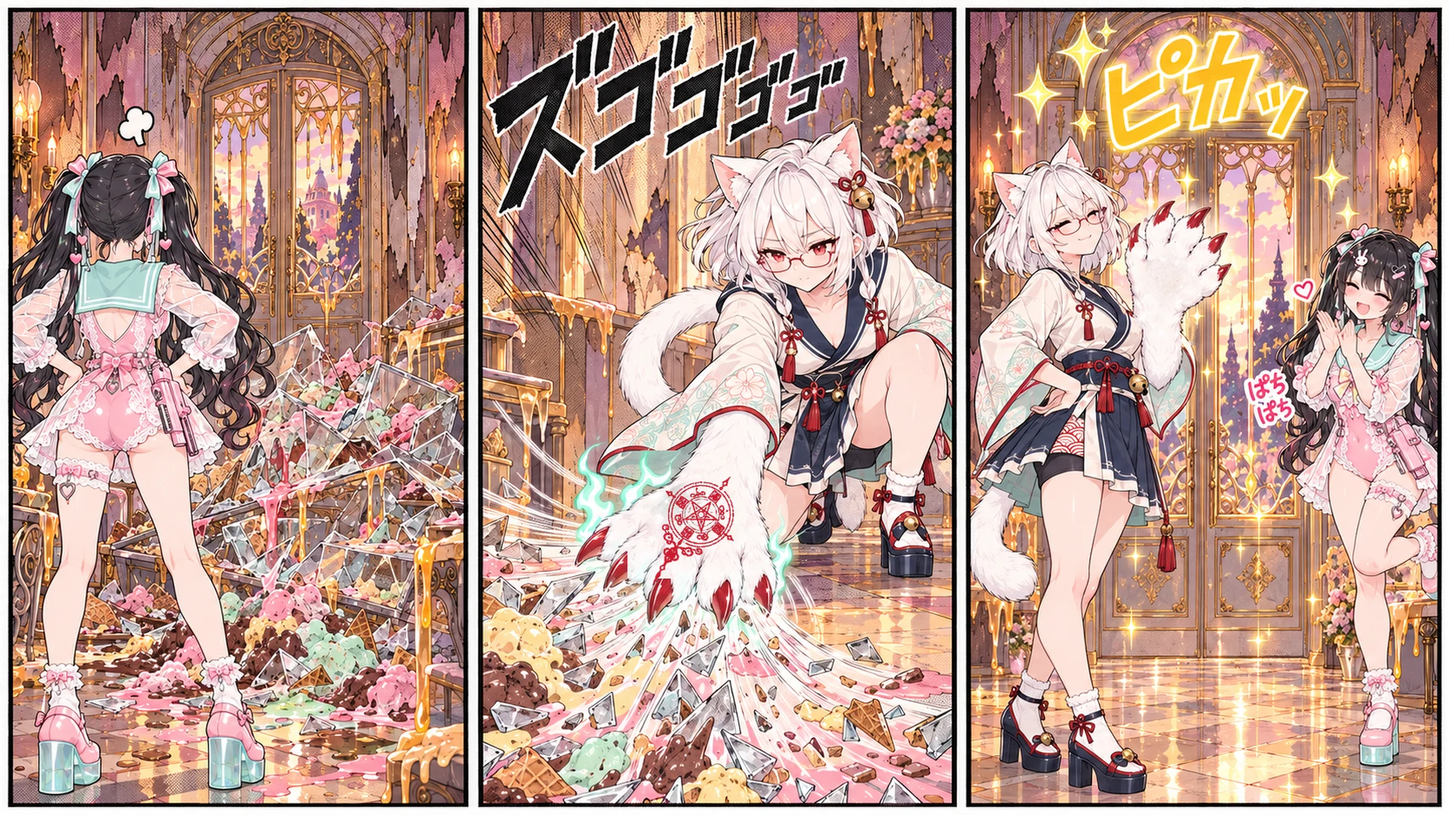
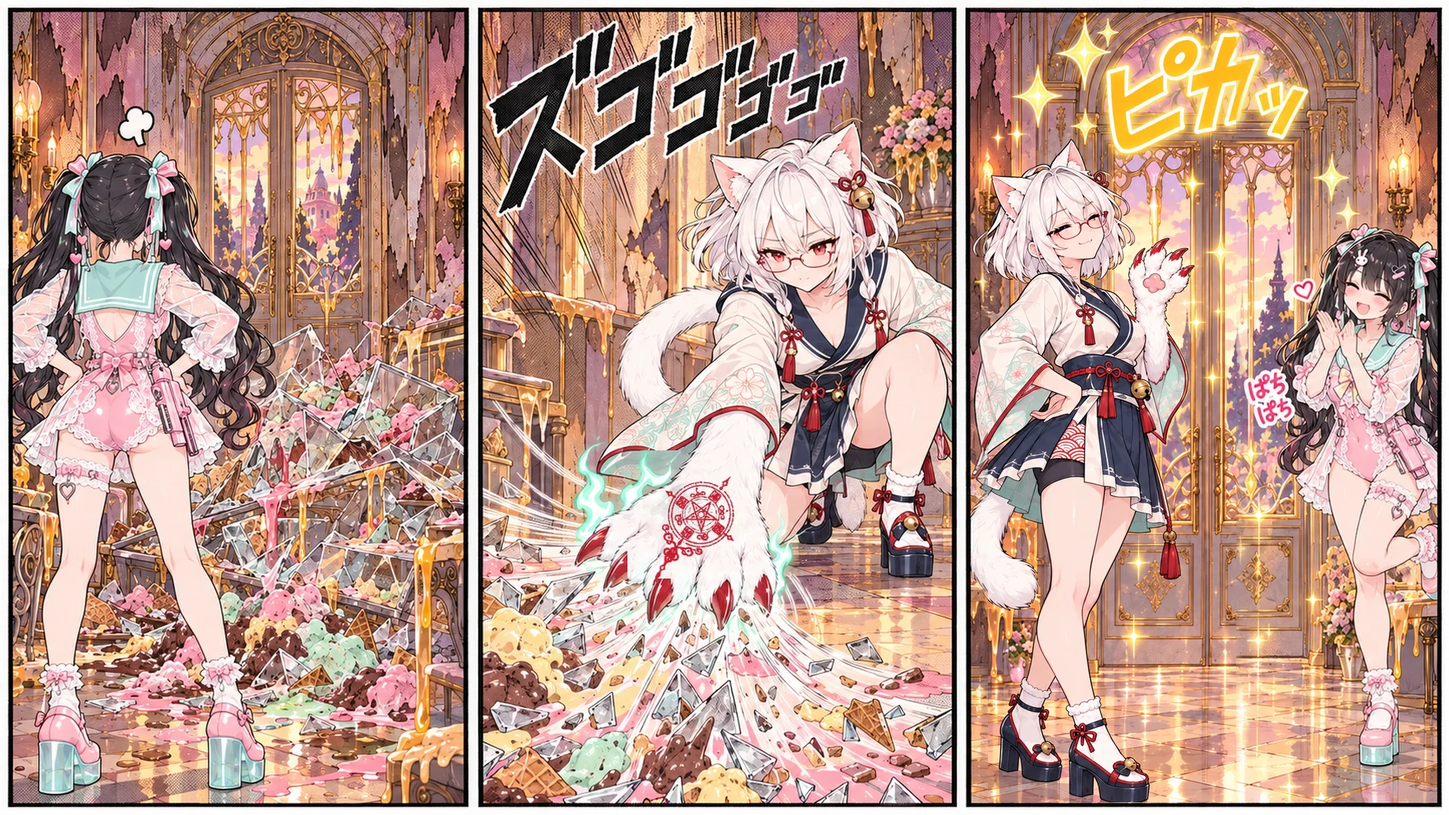
第 1 话十七条第 2 条：按事件推进不靠秒表（一波的定时事件没发生完不结束、最后一波挂着的吊灯也算、吊灯一盏接一盏醒）；夫人之影等声音说完才化掉、这一站的怪等她化掉才出；噬人门活着时藏起真门、死了塌成一滩真门淡回来；扫玻璃那格爪子缩到合理大小

Changed region(s): [[0.6562, 0.0, 0.875, 1.0]]

diff --git a/src/battle/game.js b/src/battle/game.js
@@ -214,7 +214,7 @@ export class Game {
     const S = this.station(id);
     // (a new stop starts clean: the last one's wave state and its waves still to come are not carried over - user 2026-10-22: from the
     // soul's escort on into the studio, the first shadow was skipped and the second came twice; picked from the select screen it was fine)
-    this.waveTok = (this.waveTok || 0) + 1; this.waveLive = false; this.pendingSpawns = 0; this.waveEvents = [];
+    this.waveTok = (this.waveTok || 0) + 1; this.waveLive = false; this.pendingSpawns = 0; this.pendingEvents = 0; this.waveEvents = [];
     // (a stop only some runs have: needs 'crow' = the crow was let out of its cage in the entrance hall - DESIGN 第 2 话; else on to the next)
     if (S?.needs === 'crow' && !this.chase?.crow && this.stationQ.length) { this.goStation(this.stationQ.shift(), boss); return; }
     // a checkpoint inside a long stage (episode 2): a retry starts here, and so does the next run from the select screen until it is cleared
@@ -699,13 +699,13 @@ export class Game {
   }
   // the thing guarded got to the end of its way (escort.js): the stop is won - no more waves, what is left is gone (escort.end)
   escortDone() {
-    this.waveIndex = this.S.waves.length; this.waveLive = true; this.pendingSpawns = 0; this.waveEvents = [];
+    this.waveIndex = this.S.waves.length; this.waveLive = true; this.pendingSpawns = 0; this.pendingEvents = 0; this.waveEvents = [];
     for (const s of this.spawners || []) s.live = false;
   }
   // on from a stop with no fight of its own (a walk-through, the end of a chase, a hiding place): the next stop, or the stage's end
   onward(S) {
     if (this.stationQ.length) this.goStation(this.stationQ.shift(), false);
-    else { this.combat = true; this.waveLive = true; this.pendingSpawns = 0; this.waveIndex = 0; this.S = { ...S, waves: [[]] }; }   // (the stage's end: as if cleared)
+    else { this.combat = true; this.waveLive = true; this.pendingSpawns = 0; this.pendingEvents = 0; this.waveIndex = 0; this.S = { ...S, waves: [[]] }; }   // (the stage's end: as if cleared)
   }
   // the evil god breaks into the calm after-school world: a hit, the paper world tears, the light turns wrong, desks float up
   invade(then) {
@@ -766,7 +766,25 @@ export class Game {
     });
   }
   startWave() {
-    const wave = this.S.waves[this.waveIndex];
+    const all = this.S.waves[this.waveIndex];
+    // a wave entry with hold: true (the lady's shadow, acts.js apparition) is a moment of its own: the rest of the wave starts only when it
+    // is over, not on a clock (user 2026-10-22: a step not finished, nothing of the next one)
+    // (what stands in the room as a thing of it - a chandelier, a statue - is there from the start; its waking waits with the rest)
+    const hold = all.find((e) => e.hold && !e.type);
+    if (hold) {
+      const tok = this.waveTok; this.waveLive = true; this.waveKills = 0; this.pendingSpawns = 1; this.waveEvents = [];
+      const still = all.filter((e) => e.type && e.from === 'statue' && !e.count);
+      for (const s of still) this.spawnEnemy({ ...s, wake: undefined });
+      const after = [...all.filter((e) => e !== hold && !still.includes(e)), ...still.filter((s) => s.wake != null).map((s) => ({ t: s.wake, wake: 1, wakeOf: s.type }))];
+      this.etw.wait(hold.t || 0, () => {
+        if (!this.combat || tok !== this.waveTok) return;
+        this.waveEvent({ ...hold, onDone: () => { if (!this.combat || tok !== this.waveTok) return; this.pendingSpawns--; this.runWave(after); } });
+      });
+      return;
+    }
+    this.runWave(all);
+  }
+  runWave(wave) {
     // a wave lists monsters, and may list things that happen at a time { t, ... } or once so many of this wave's monsters are dead
     // { kills: n, ... }: turn: {...} the place turns real / rotten; mutate: true every monster still standing becomes its full self
     // (enemies.json mutatesTo); gimmick: id fires that mechanism of the set (a portrait empties)
@@ -779,11 +797,14 @@ export class Game {
     const tok = this.waveTok;
     for (const s of spawns) this.etw.wait((s.t || 0) + T.combat.spawnDelay, () => { if (!this.combat || tok !== this.waveTok) return; this.spawnEnemy(s); this.pendingSpawns--; });   // (an entry without t: at once)
     this.waveEvents = wave.filter((e) => !e.type && e.kills);
-    for (const e of wave) if (!e.type && !e.kills) this.etw.wait(e.t || 0, () => this.combat && this.waveEvent(e));
+    // (a wave is not over before everything it says has happened - its timed events too: user 2026-10-22, a step not finished, nothing
+    // of the next one; the gallery's chandeliers had all woken at once, their waves skipped over before their wakes came)
+    const timed = wave.filter((e) => !e.type && !e.kills); this.pendingEvents = timed.length;
+    for (const e of timed) this.etw.wait(e.t || 0, () => { if (tok !== this.waveTok) return; this.pendingEvents--; if (this.combat) this.waveEvent(e); });
   }
   waveEvent(e) {
     // everything else a wave event says is a director's cue (cues.js: say, mv, act, cam, burst, shake ...)
-    const { t: _t, kills: _k, turn: _tu, mutate: _m, gimmick: _g, collapse: _c, hint: _h, sound: _s, spawner: _sp, wake: _w, wakeOf: _wo, ...cue } = e;
+    const { t: _t, kills: _k, turn: _tu, mutate: _m, gimmick: _g, collapse: _c, hint: _h, sound: _s, spawner: _sp, wake: _w, wakeOf: _wo, hold: _ho, ...cue } = e;
     if (Object.keys(cue).length) this.cues.run(cue);
     if (e.turn) this.turn(e.turn);
     if (e.mutate) this.mutateAll();
@@ -814,16 +835,18 @@ export class Game {
     sfx.madness(); this.post.flash(0.5, 0xff8ab0);
   }
   checkWave() {
-    if (!this.waveLive || this.pendingSpawns > 0) return;
+    if (!this.waveLive || this.pendingSpawns > 0 || this.pendingEvents > 0) return;
     if (this.spawners?.some((s) => s.live)) return;
     // episode 2: the things blocking the way (gimmicks with block: true) must all be gone too
     if (this.S.block && this.actors.some((a) => a.g?.block && (!a.g.station || a.g.station === this.stationId) && !a.spent)) return;
     if (this.S.dial && !this.chase.sentOff) return;   // (the last fight: over when the bell has sent her off)
     // no idle gaps (user 2026-10-18): a wave that is not the last one hands over to the next while its last few (combat.waveCarry) are still
     // up; the last wave of a stop is fought to the end
-    // (a chandelier still hanging there as it is does not hold the wave up: it wakes when its own wave starts - chandeliers in ep1_rework.py)
-    const alive = this.actors.filter((a) => a.alive && !(a instanceof Projectile) && !a.prop && !a.phantom && !a.stalker && !(a.state === 'statue' && a.bp?.hang && !a.waking)), left = alive.length;
+    // (a chandelier still hanging there as it is does not hold a wave up while a later wave of this stop is still to wake it -
+    // chandeliers in ep1_rework.py; on the stop's last wave it does: the stop is never over with a monster of it still there - user
+    // 2026-10-22, the camera turned away from chandeliers that had not even woken)
     const last = this.waveIndex >= this.S.waves.length - 1;
+    const alive = this.actors.filter((a) => a.alive && !(a instanceof Projectile) && !a.prop && !a.phantom && !a.stalker && (last || !(a.state === 'statue' && a.bp?.hang && !a.waking))), left = alive.length;
     // only statues still standing and nothing left to wake them: they come to life now (else the stop could never be cleared)
     if (last && left && !this.waveEvents?.some((e) => e.wake) && alive.every((a) => a.state === 'statue' && !a.waking)) this.waveEvent({ wake: true });
     if (left > (last || this.S.solo ? 0 : T.combat.waveCarry ?? 0)) return;   // (station solo: every wave fought to the end - the studio's shadows one at a time, user 2026-10-22)
@@ -838,7 +861,9 @@ export class Game {
     const tok = this.waveTok, next = () => this.combat && tok === this.waveTok && this.S.waves?.[this.waveIndex] && this.startWave();   // (only for this stop)
     if (this.ep.sandbox && this.waveIndex >= this.S.waves.length) { this.waveIndex = 0; this.etw.wait(T.combat.waveGap, next); return; }   // (the sound sandbox: they keep coming)
     if (this.escort.going && this.waveIndex >= this.S.waves.length) { this.waveIndex = this.S.escort.loop ?? 0; this.etw.wait(T.combat.waveGap, next); return; }   // (they keep coming while it is on its way)
-    if (this.waveIndex < this.S.waves.length) { this.etw.wait(left ? 0.2 : T.combat.waveGap, next); return; }
+    // (no gap before a wave that only wakes what hangs there already: the next chandelier straight away - user 2026-10-22, too slow)
+    const wakeOnly = this.S.waves[this.waveIndex]?.every((e) => !e.type && e.wake);
+    if (this.waveIndex < this.S.waves.length) { this.etw.wait(left || wakeOnly ? 0.2 : T.combat.waveGap, next); return; }
     this.combat = false;
     this.clearProjectiles();
     const quiet = this.S.quietEnd;   // (a stop that is not won but run from - the chase: no fanfare, no "cleared!")

diff --git a/src/battle/enemies.js b/src/battle/enemies.js
@@ -470,6 +470,9 @@ export class Enemy extends Actor {
       P.set(s.x, s.y || 0, s.z); this.state = 'statue'; this.setFrame(this.prefix + (this.frames.disguise || this.frames.idle || this.frames.walk || [this.def.first])[0]);
       this.u.outlineOn.value = 0; this.statueReady = ready;
       if (!this.frames.disguise) { const T0 = this.def.statueTint; if (T0) { this.u.tint.value.set(T0[0]); this.u.tintAmt.value = T0[1]; } else { this.u.tint.value.setRGB(0.74, 0.72, 0.7); this.u.tintAmt.value = 0.8; } }   // (disguise: not stone - a thing of the place, as it is: the gallery's door; statueTint: its own - frozen in ice)
+      // (replacesDoor: it IS the room's door until it wakes - the real one is hidden meanwhile, never two doors in one place; it comes
+      // back when the monster is beaten: dieDoor - user 2026-10-22, the maw door showed through the real one)
+      if (this.def.replacesDoor) for (const m of this.game.world.endDoor || []) m.visible = false;
       if (bp.hang) {   // (hanging from the ceiling on its chain: the chandelier - user 2026-10-22)
         const top = lv.ceilAt(s.z), y0 = P.y + this.h * 0.97, L = Math.max(0.1, top - y0);
         this.chain = new THREE.Mesh(new THREE.CylinderGeometry(0.022, 0.022, L, 6), new THREE.MeshBasicMaterial({ color: 0x2a1e14 }));
@@ -1142,6 +1145,7 @@ export class Enemy extends Actor {
   // monster's (a long crossfade), it squashes and springs up, ink bursts off it, a roar - and it goes
   wake() {
     if (!this.alive || this.state !== 'statue' || this.shuddering) return;
+    this.waking = true;   // (whoever woke it - a wave event or its own timer: it counts as a monster of the wave from now on, Game.checkWave)
     const g = this.game, P = this.root.position;
     const turn = () => {
       this.shuddering = false; this.inner.position.x = 0; this.inner.rotation.z = 0;
@@ -1170,6 +1174,21 @@ export class Enemy extends Actor {
       this.inner.position.x = Math.sin(e * D * 55) * 0.04 * k; this.inner.rotation.z = Math.sin(e * D * 37) * 0.035 * k;
       if (Math.random() < 0.12 + k * 0.3) g.fx.puff(this.uvToWorld(Math.random(), Math.random() * 0.9), 2, COL.bone, 0.6);
     }, { onDone: turn });
+  }
+  // the maw door beaten (replacesDoor): its jaws sag, it slumps down into a puddle of honey, ink bursting off it, while the real door
+  // fades back in where it stood
+  dieDoor() {
+    const g = this.game, D = g.world.endDoor || [], c = this.center();
+    g.fx.ink(c, 30, 2.2, COL.violet); g.fx.confetti(c, 26, 1.8, [COL.bone, COL.paper]); g.post.shake(1.2); sfx.thud(0);
+    for (const m of D) { m.visible = true; m.material.transparent = true; m.material.opacity = 0; }
+    g.tweens.run(0.25, (k) => { this.inner.scale.set(1 + 0.12 * k, 1 + 0.1 * k, 1); });
+    g.tweens.wait(0.25, () => g.tweens.run(1.3, (k) => {
+      const e = k * k;
+      this.inner.scale.set(1.12 + 0.25 * e, 1.1 * (1 - 0.95 * e), 1); this.u.opacity.value = 1 - e;
+      this.inner.position.x = Math.sin(k * 40) * 0.04 * (1 - k);
+      if (Math.random() < 0.3) g.fx.puff(this.uvToWorld(Math.random(), Math.random() * 0.3), 2, COL.bone, 0.7);
+      for (const m of D) m.material.opacity = Math.min(1, k * 1.4);
+    }, { onDone: () => { for (const m of D) m.material.opacity = 1; this.dispose(); } }));
   }
   // 幻影洗牌: n figures, only this one real; spawned once it is up, reshuffled after it loses a share of its HP
   makePhantoms() {
@@ -1212,6 +1231,9 @@ export class Enemy extends Actor {
     if (this.shadowM && this.pivot === 'center') this.shadowM.visible = false;
     const uv = info?.uv || { u: 0.5, v: 0.55 };
     const crit = info?.crit;
+    if (this.def.replacesDoor) {   // (the maw door: not flung about - it sags and melts away and the real door is there behind it)
+      this.dieDoor(); sfx.paperRip(0); this.game.onKill(this, 'knock', crit); this.game.morph?.burst(this); this.game.morph?.puddle(this); return;
+    }
     // rifle: knocked flat / shattered on a crit. mantra + beam: purified (burns away in gold) / shattered on a crit
     const how = crit ? 'shatter' : kind === 'mantra' || kind === 'beam' ? 'burn' : 'knock';
     // with the physics: knocked away by that shot (harder the heavier it was), tumbling into what is there; burning away as it flies; a

diff --git a/src/battle/acts.js b/src/battle/acts.js
@@ -14,7 +14,7 @@
 // and, for every monster: purified by the cat's mantra (kill kind mantra / beam), a kind with "revert" in enemies.json leaves behind
 // what it was (a prop, a rigid body) instead of burning away (Acts.revert, from Enemy.die). Owned by Game (game.acts).
 import * as THREE from 'three';
-import { sfx, sound } from '../core/audio.js';
+import { sfx, sound, talking, voiceLoad } from '../core/audio.js';
 import { C } from '../core/content.js';
 import { COL } from './fx.js';
 
@@ -39,8 +39,8 @@ export class Acts {
   constructor(game) { this.g = game; this.live = []; }
 
   start(e) {
-    const f = this[e.act]; if (!f) { console.warn('unknown act', e.act); return; }
-    const a = f.call(this, e); if (a) this.live.push(a);
+    const f = this[e.act]; if (!f) { console.warn('unknown act', e.act); e.onDone?.(); return; }
+    const a = f.call(this, e); if (a) this.live.push(a); else e.onDone?.();   // (onDone: a wave held for it goes on - Game.startWave hold)
   }
   update(dt, t) {
     for (let i = this.live.length - 1; i >= 0; i--) if (this.live[i].update(dt, t) === false) this.live.splice(i, 1);
@@ -50,18 +50,26 @@ export class Acts {
   // ---- apparition: the lady's shadow seen a moment (user 2026-10-22: in each place of the house her shadow jumps out once, up close,
   // saying something - and her child's things seen on the way, not first at the end): { act, shade: its picture standing there unseen
   // till now (sets.json gimmicks, hidden), say: her line (text/stickers.json bosses.madame), name } - it seeps up out of the dark, the fight
-  // held while the camera goes to it and she speaks (Game.introLook, her voice), then it melts away. Not a monster of the wave
+  // held while the camera goes to it and she speaks (Game.introLook, her voice), then it melts away. Not a monster of the wave.
+  // Each step waits for the one before, not a clock (user 2026-10-22: in the nursery she was gone before she had finished): her voice
+  // loaded before she speaks, the close look only once no other is on, gone only when her line is over; then the wave holding for her
+  // goes on (e.onDone, Game.startWave hold)
   apparition(e) {
     const G = this.g, gm = e.shade && G.actors.find((a) => a.g?.id === e.shade && a.alive); if (!gm) return null;   // (shade, not gimmick: a wave event's gimmick fires one)
     gm.root.visible = true; gm.billboard = true; gm.u.outlineOn.value = 0; gm.u.opacity.value = 0; gm.inner.scale.set(0.6, 0.15, 1);
     G.fx.ink(gm.center(), 18, 1.4, COL.violet); (sfx.creak || sfx.thud)(0); G.post.shake(0.5);
     G.tweens.run(1.0, (k) => { gm.u.opacity.value = k; gm.inner.scale.set(0.6 + 0.4 * k, 0.15 + 0.85 * k * (2 - k), 1); });
-    G.tweens.wait(0.8, () => G.introLook(gm, { say: e.say, who: 'madame', name: e.name, dist: e.dist ?? 4.4, up: e.up ?? 0.4, v: 0.6, min: 3.2 }));
-    const t0 = performance.now();
-    return { update: () => {
-      if (G.cineOn || performance.now() - t0 < 2000) return;
+    let loaded = false, step = 'rise', t = 0;
+    voiceLoad('madame', e.say).then(() => { loaded = true; }, () => { loaded = true; });
+    return { update: (dt) => {
+      t += dt;
+      if (step === 'rise') {
+        if (t < 1.0 || !loaded || G.cineOn || G.vigOn || G.board) return;
+        G.introLook(gm, { say: e.say, who: 'madame', name: e.name, dist: e.dist ?? 4.4, up: e.up ?? 0.4, v: 0.6, min: 3.2 }); step = 'speak'; t = 0; return;
+      }
+      if (G.cineOn || talking('madame') || t < 0.6) return;
       G.fx.ink(gm.center(), 14, 1.2, COL.violet);
-      G.tweens.run(0.9, (k) => { gm.u.opacity.value = 1 - k; gm.inner.scale.set(1 + k * 0.2, 1 + k * 0.35, 1); }, { onDone: () => { gm.alive = false; gm.dispose(); } });
+      G.tweens.run(0.9, (k) => { gm.u.opacity.value = 1 - k; gm.inner.scale.set(1 + k * 0.2, 1 + k * 0.35, 1); }, { onDone: () => { gm.alive = false; gm.dispose(); e.onDone?.(); } });
       return false;
     } };
   }

diff --git a/src/battle/panels.js b/src/battle/panels.js
@@ -269,9 +269,10 @@ export class PanelWorld {
     if (Hd.door && tex[Hd.door.frame]) {
       const D = Hd.door, ft = tex[D.frame], hole = meta[D.frame]?.hole || [0.26, 0.2, 0.74, 1], dw = D.w, dh = dw * ft.image.height / ft.image.width, dx = D.x || 0;
       const f = board(D.frame, dw, dh, { soft: true }); f.position.set(dx, dh / 2, z1 + 0.08); f.renderOrder = 2; put(f, z1);
+      this.endDoor = [f];   // (a monster standing in for it hides it while it lives: enemies.json replacesDoor - the gallery's maw door)
       if (tex[D.leaf]) {
         const lw = dw * (hole[2] - hole[0]), lh = dh * (hole[3] - hole[1]), l = board(D.leaf, lw, lh, { alpha: true });
-        l.position.set(dx + dw * ((hole[0] + hole[2]) / 2 - 0.5), dh * (1 - (hole[1] + hole[3]) / 2), z1 + 0.05); put(l, z1);
+        l.position.set(dx + dw * ((hole[0] + hole[2]) / 2 - 0.5), dh * (1 - (hole[1] + hole[3]) / 2), z1 + 0.05); put(l, z1); this.endDoor.push(l);
       }
     }
     // a drawbridge (hall.bridge = { z0, z1, seals }): a gap in the floor between z0 and z1, the bridge standing up on its far side (hinged

diff --git a/src/core/audio.js b/src/core/audio.js
@@ -530,6 +530,11 @@ export function voice(who, kind, i, slot = 0, pr = 5, pan) {
   if (!b || b instanceof Promise) { if (b === undefined) load(f); return null; }
   return talk(who, b, pr, pan ?? (slot ? 0.25 : -0.25));
 }
+// every voice file of a kind of line loaded (a moment that must not start silent waits for it: acts.js apparition)
+export function voiceLoad(who, kind) {
+  const L = C.sounds?.voices?.[who]?.lines || {};
+  return Promise.all(Object.keys(L).filter((k) => k.startsWith(`${kind}_`)).map((k) => load(L[k])));
+}
 // how long that line is said (seconds; 0 = no voice / not loaded yet): a line's words stay up while it is said
 export function voiceLen(who, kind, i) {
   const b = BUF.get(C.sounds?.voices?.[who]?.lines?.[`${kind}_${i + 1}`]);

diff --git a/tools/rounds/job_specs93.py b/tools/rounds/job_specs93.py
@@ -24,8 +24,11 @@ FIX = {
                "the big paw in front, the lower one of her two clasped hands under her chin",
                "her other hand, the one behind that paw, its fingers over it (the upper one of the two), clasped together with the paw under "
                "her chin in delight at the same place"),
+    # (user 2026-10-22: on the glass page's last panel the paw is far bigger than the cat girl - redrawn its right size: GLASS below)
+    "glass_2": ("glass", 2, (0.01, 0.0, 0.6, 1.0), None, None),
 }
-EP = {"fountain": "ep1", "fall": "ep1", "open": "ep2"}   # (which episode's pack each page is in: comic/<ep>p_<page>, comics.json <ep>_<page>)
+GROW = {"glass_2"}   # (a panel too narrow for the tool's shapes: the crop may reach past it on the page - only her box is pasted back)
+EP = {"fountain": "ep1", "fall": "ep1", "open": "ep2", "glass": "ep1"}   # (which episode's pack each page is in: comic/<ep>p_<page>, comics.json <ep>_<page>)
 SHAPES = (2 / 3, 1.0, 3 / 2)   # w / h the image tool makes
 
 
@@ -69,6 +72,9 @@ def boxes(name):   # -> (crop box, her box) on the page, px: the crop = her box 
         if (x1 - x0) / (y1 - y0) > want * 1.02:   # (the panel too low to grow taller: narrower instead, round her box, inside the panel)
             w = (y1 - y0) * want; cx = min(max((her[0] + her[2]) / 2, X0 + w / 2), X1 - w / 2); x0, x1 = cx - w / 2, cx + w / 2
         if x0 <= her[0] + 1 and x1 >= her[2] - 1 and y0 <= her[1] + 1 and y1 >= her[3] - 1: break
+    if name in GROW and (x1 - x0) / (y1 - y0) < min(SHAPES, key=lambda s: abs(s - (x1 - x0) / (y1 - y0))) * 0.98:
+        W = Image.open(orig(page)).size[0]; want = min(SHAPES, key=lambda s: abs(s - (x1 - x0) / (y1 - y0))); add = (y1 - y0) * want - (x1 - x0)
+        x0, x1 = max(0, x0 - add), x1 if x0 - add >= 0 else min(W, x1 + add - x0)
     return tuple(round(v) for v in (x0, y0, x1, y1)), tuple(round(v) for v in her)
 
 
@@ -93,7 +99,7 @@ def prompt(name):
 
 
 JOBS = {f"R93_{n}": [(f"art/raw/r93/{n}_{v}.png", [src(n), "art/ref/cat_sheet.png", "art/ref/pink_sheet.png", "art/ref/pink_poses.png"],
-                      prompt(n) + f" Try {v}.", "OPAQUE") for v in "abc"] for n in FIX}
+                      prompt(n) + f" Try {v}.", "OPAQUE") for v in "abc"] for n in FIX if FIX[n][3]}
 
 # (user 2026-10-22, on open_0 b: three hands - the lump of fur under her chin still read as two paws, with the girl's hand over them: again,
 # asking outright for exactly two hands and the second lump gone)
@@ -110,3 +116,17 @@ REDO = ("Edit reference image 1, a panel from a full-colour manga page of a game
         "effects.")
 JOBS["R93_open_0_redo"] = [(f"art/raw/r93/open_0_{v}.png", [src("open_0"), "art/ref/cat_sheet.png", "art/ref/pink_sheet.png",
                                                              "art/ref/pink_poses.png"], REDO + f" Try {v}.", "OPAQUE") for v in "def"]
+
+GLASS = ("Edit reference image 1, a panel from a full-colour manga page of a game. Output the SAME picture at the same framing: keep "
+         "everything exactly as it is (the camera, the composition, the stained-glass door and the room behind, the colours, the line art "
+         "and screentone style, the sparkles and the lettering) and keep the white-haired cat girl's pose, position, size, smug smiling "
+         "face, hair, glasses, clothes, tail and legs exactly as they are (reference image 2 is her design sheet). The black-haired twin-tail "
+         "girl, where she is in the picture, stays exactly as she is too (reference images 3 and 4 are her design; " + OUTFIT + "). Change "
+         "ONLY one thing: her cat paw (her raised arm beside her face, its palm with pink paw pads toward the viewer) is drawn FAR too big - "
+         "as big as her whole upper body. Redraw it at its right size, as on her design sheet: a white fluffy ghost-cat paw with red claws "
+         "about one and a half times the size of her head and no bigger, still raised beside her face in the same proud 'ta-da' gesture "
+         "with the palm and pads toward the viewer, coming out of the same wide white sleeve, the arm and sleeve in proportion to her body; "
+         "fill the space it leaves with the same background (the door, its stained glass, the sparkles). No mark or seal on the palm. Do not "
+         "add text, do not add effects.")
+JOBS["R93_glass_2"] = [(f"art/raw/r93/glass_2_{v}.png", [src("glass_2"), "art/ref/cat_sheet.png", "art/ref/pink_sheet.png", "art/ref/pink_poses.png"],
+                        GLASS + f" Try {v}.", "OPAQUE") for v in "abc"]

diff --git a/tools/rounds/ep1_rework.py b/tools/rounds/ep1_rework.py
@@ -341,9 +341,8 @@ def apparitions(D):
             else:
                 S["gimmicks"].append({"id": f"keep_{stn}", "k": k, "on": "stand", "x": round(max(H["x0"] + 0.8, min(H["x1"] - 0.8, x + across)), 2), "z": round(z + 0.3, 2),
                                       "w": w, "shoot": False})
-        for e in st["waves"][0]:   # (the stop's first wave a little later, all of it - the statues' wakes too: she is seen alone first)
-            e["t"] = round(e.get("t", 0) + 5.0, 2)
-        st["waves"][0].insert(0, {"t": 0.8, "act": "apparition", "shade": f"lady_{stn}", "say": say, "name": SHADE})
+        # (hold: the stop's first wave - its monsters, the statues' wakes - only once she is gone, not on a clock: Game.startWave)
+        st["waves"][0].insert(0, {"t": 0.8, "act": "apparition", "hold": True, "shade": f"lady_{stn}", "say": say, "name": SHADE})
 
 def places(D):
     import random

diff --git a/tools/rounds/r93_import.py b/tools/rounds/r93_import.py
@@ -12,9 +12,10 @@ import packs  # noqa: E402
 from job_specs93 import FIX, EP, RAW, boxes, panel_box, orig  # noqa: E402
 from r53_import import put  # noqa: E402
 
-PICK = {"fountain_3": "b", "fall_2": "c", "open_0": "d"}
+PICK = {"fountain_3": "b", "fall_2": "c", "open_0": "d", "glass_2": "b"}
 # (fountain b: the sleeve keeps its mint lining; fall a drew a second gun girl behind her; open: a-c kept the two-paw lump under the girl's
 # hand - three hands (user 2026-10-22) - so d-f asked for exactly two: d; e drew her as the gun girl, f changed the whole panel)
+# (glass: the paw far bigger than she is, user 2026-10-22 - b: about her head's size, its palm and pad toward the viewer; a lost the paw)
 FEATHER = 0.05   # of her box's smaller side
 
 

diff --git a/docs/TECH.md b/docs/TECH.md
@@ -196,10 +196,11 @@
   - `phantoms: { n, shuffle, hits }`：出场后站在 n - 1 个幻影（`Phantom`：同一张图、同样的动作、偏一个位置）中间；幻影挨打只闪不掉血，挨 hits 下化掉；真身每掉 shuffle 的血，所有人淡出、重新排位置淡入；真身死了幻影一起化掉；幻影不算这一波的怪（`checkWave`）；
   - `dmg`：它咬 / 撞一下掉多少血（没写就是 combat.enemyHit；成群的蝙蝠只掉 8）。
 - 波与波之间不留空：不是最后一波时，场上只剩 `combat.waveCarry`（1）只就开始下一波（这一波还有按击杀数触发的事件时等它们）；最后一波打完才算清场（`Game.checkWave`）。
-- 波次条目：`count: n` 一次刷一群（`spread` 米宽里排开，`every` 秒一个，飞的高度略有起伏）；`from: 'statue'` 摆设（灰色、没描边、打不中，`hitMeshes` 为空），`wake` 秒后或波次事件 `{ kills / t, wake: true | 数量, wakeOf: 种类 }`（近的先；`wakeOf` 只叫醒那一种）裂开活过来（`Enemy.wake`）；吊灯 `params.hang`：摆着时一根链子连到天花板（`Actor.chain`），醒来链子断、往下掉 `drop` 米再飘（`sway`），挂着没醒的不算这一波的怪（`checkWave`）——`ep1_rework.py chandeliers` 把每站的吊灯挪到第 0 波、挂在天花板下（每站最多四盏，在镜头前沿天花板中线左右轮流排开），原来那一波开始时 `wakeOf: chandelier` 叫醒；夫人之影的露面：演出 `act: apparition`（`acts.js`，`{ shade: 机关 id, say: 台词种类, name }`——用 `shade` 不用 `gimmick`：波次事件的 `gimmick` 是触发机关）把一个藏着的机关（`sets.json gimmicks` 的 `hidden: true`）显出来、`Game.introLook`（`o.name`：没有怪的种类时的名字）拍她说话，特写完了化掉；`ep1_rework.py apparitions` 在六个地方的那一站摆好她和那件东西、把这一站第一波的怪推迟 5 秒；台词在 `text/stickers.json bosses.madame`（`seen_*` 和 photo / diary / coffin），配音 `tools/voice_aivis.py lines madame seen_shop seen_garden seen_oven`。第 1 话一屋一种怪是 `ep1_rework.py one_kind`（`ONE_KIND`：每间屋的种类、它的另一个样子、每波最多几只、换过来的血量），把别的怪换成这一种或去掉（摆着的 statue 不算在每波的数里；一波里有「打掉 N 只」的事件就至少留 N 只能打的，实在凑不够的事件改成过几秒就触发——不然它叫醒的摆设永远等着），演出（acts）和出怪口（spawner）的怪也换；怪的 `statueTint`：摆着时（`from: statue`、没有 `frames.disguise`）的颜色，不写就是灰石头；怪的 `frames.disguise` 有的话摆设不是灰石头，而是那件东西正常的样子（画廊尽头的门 `door_mouth`、R83 的吊灯 / 展示铠甲 `<variant>_disguise`，和醒来那帧同一张画布）：醒来先抖 `params.shudder`（1.1）秒、越抖越厉害、身上掉灰（`shuddering`，期间还是摆设），再换成 `rise` / `idle` 那帧、交叉淡化放慢到 0.55 秒（`blendT`）、压扁弹起、溅墨、吼一声。
+- 按事件推进，不靠秒表（2026-10-22 用户：一个事件节点没完成就不到下一个）：一波里按时间的事件（`{ t, ... }`）都发生过、出怪都出完，这一波才可能结束（`pendingEvents`、`pendingSpawns`）；最后一波连挂着没醒的吊灯也算，一站绝不会在还有它的怪时结束；下一波只是叫醒挂着的东西时不等 `waveGap`。波次条目 `hold: true`（演出，夫人之影 `act: apparition`）是单独的一段：这一波其余的东西等它做完（`onDone`）才开始，摆设（`from: statue`）先摆好、它们的 `wake` 变成之后的事件（`Game.startWave`）。
+- 波次条目：`count: n` 一次刷一群（`spread` 米宽里排开，`every` 秒一个，飞的高度略有起伏）；`from: 'statue'` 摆设（灰色、没描边、打不中，`hitMeshes` 为空），`wake` 秒后或波次事件 `{ kills / t, wake: true | 数量, wakeOf: 种类 }`（近的先；`wakeOf` 只叫醒那一种）裂开活过来（`Enemy.wake`）；吊灯 `params.hang`：摆着时一根链子连到天花板（`Actor.chain`），醒来链子断、往下掉 `drop` 米再飘（`sway`），挂着没醒的不算这一波的怪、最后一波除外（`checkWave`）——`ep1_rework.py chandeliers` 把每站的吊灯挪到第 0 波、挂在天花板下（每站最多四盏，在镜头前沿天花板中线左右轮流排开），原来那一波开始时 `wakeOf: chandelier` 叫醒；夫人之影的露面：演出 `act: apparition`（`acts.js`，`{ shade: 机关 id, say: 台词种类, name }`——用 `shade` 不用 `gimmick`：波次事件的 `gimmick` 是触发机关）把一个藏着的机关（`sets.json gimmicks` 的 `hidden: true`）显出来，她的声音加载好（`audio.js voiceLoad`）、没有别的特写时 `Game.introLook`（`o.name`：没有怪的种类时的名字）拍她说话，那句说完（`talking`）才化掉；`ep1_rework.py apparitions` 在六个地方的那一站摆好她和那件东西，她那一条写 `hold: true`（这一站第一波等她化掉再开始）；台词在 `text/stickers.json bosses.madame`（`seen_*` 和 photo / diary / coffin），配音 `tools/voice_aivis.py lines madame seen_shop seen_garden seen_oven`。第 1 话一屋一种怪是 `ep1_rework.py one_kind`（`ONE_KIND`：每间屋的种类、它的另一个样子、每波最多几只、换过来的血量），把别的怪换成这一种或去掉（摆着的 statue 不算在每波的数里；一波里有「打掉 N 只」的事件就至少留 N 只能打的，实在凑不够的事件改成过几秒就触发——不然它叫醒的摆设永远等着），演出（acts）和出怪口（spawner）的怪也换；怪的 `statueTint`：摆着时（`from: statue`、没有 `frames.disguise`）的颜色，不写就是灰石头；怪的 `frames.disguise` 有的话摆设不是灰石头，而是那件东西正常的样子（画廊尽头的门 `door_mouth`、R83 的吊灯 / 展示铠甲 `<variant>_disguise`，和醒来那帧同一张画布）：醒来先抖 `params.shudder`（1.1；吊灯 0.5）秒、越抖越厉害、身上掉灰（`shuddering`，期间还是摆设），再换成 `rise` / `idle` 那帧、交叉淡化放慢到 0.55 秒（`blendT`）、压扁弹起、溅墨、吼一声。
 - 进场的门（`Enemy` 构造）：`from: door / stairs` 的门洞沿镜头朝向不到 `layout.json monster.doorAhead`（6）米（在镜头背后或身边）就换最远的一扇够远的门，没有就不走门（从远处走进来）。
 - 种类自己的颜色：enemies.json `tint` + `tintAmt`（每帧压上去，冻住时除外：巨影）；`thaw`：冻在冰块里的样子醒来时冰块炸开（冷库的丧尸）。
-- 波次条目 `from: 'painting', painting: <画的机关 id>`：从墙上那幅画里出来（画同时翻成空画布）：先是一团小小的黑影从画布上渗出来、胀到原大，再落到它的位置（`x`、`z`，配 `free`）、震一下、颜色回来（画室的四个影）。enemies.json `bossBar`：活着时 HUD 顶上是它自己的血条（`hud.boss`），死了收起；`params.sway: [米, 速度]`：扔东西的怪站着时在镜头前远近、横向、上下地飘（每帧按增量加上去，从它站的地方接着飘；不是一动不动的靶子）；`params.rear: [弧度, 米]`：蓄力时往后仰、往后退，出手时扑回来（`params.swell` 是鼓起来，噬人门用）。场景 `monster.perspective`（第 1 话）的怪：`Actor.baseUpdate` 让它朝移动方向转身（偏离正对镜头最多 0.75 弧度，`yawOff`），走路的怪按走过的距离一步一起伏（`mesh.position.y`）。
+- 波次条目 `from: 'painting', painting: <画的机关 id>`：从墙上那幅画里出来（画同时翻成空画布）：先是一团小小的黑影从画布上渗出来、胀到原大，再落到它的位置（`x`、`z`，配 `free`）、震一下、颜色回来（画室的四个影）。enemies.json `replacesDoor`（噬人门）：它当门摆着时把房间尽头的真门（`PanelWorld.endDoor`）藏起来，打死时不被打飞，鼓一下再塌成一滩、真门淡回来（`Enemy.dieDoor`）。enemies.json `bossBar`：活着时 HUD 顶上是它自己的血条（`hud.boss`），死了收起；`params.sway: [米, 速度]`：扔东西的怪站着时在镜头前远近、横向、上下地飘（每帧按增量加上去，从它站的地方接着飘；不是一动不动的靶子）；`params.rear: [弧度, 米]`：蓄力时往后仰、往后退，出手时扑回来（`params.swell` 是鼓起来，噬人门用）。场景 `monster.perspective`（第 1 话）的怪：`Actor.baseUpdate` 让它朝移动方向转身（偏离正对镜头最多 0.75 弧度，`yawOff`），走路的怪按走过的距离一步一起伏（`mesh.position.y`）。
 - Boss 跪下（`grief`）或死了以后 `spawnProjectile` / `spawnEnemy` 什么都不出（2026-10-22 用户：夫人最后的演出不该是实时的，她一倒飞的东西就该都没了；已经排上的齐射也不再出来）。
 - 每到一站（`goStation`）波次状态清零、换一个 `waveTok`：上一站排好的「下一波」「出怪」计时器到点时令牌不对就作废（2026-10-22 用户：从护送一路打进画室，第一个影被跳过、第二个出来两个；单独选关正常——护送结束时 `escortDone` 留下的 `waveLive` 和循环出怪的计时器带进了下一站）。
 - 站点 `solo`：每一波打到全灭才出下一波（不留 `combat.waveCarry`）；波次条目 `look: { say, who, dist, up, v, min, delay }`：它落地 `delay` 秒后 `Game.introLook`——`cine` 暂停（`still`：被拍的那个也定住），镜头拉近，`stickers.boss` 用 `who`（默认 madame）的台词和声音说 `say` 那句（名牌是它自己的名字），说完拉回（画室的四个影：`ep1_rework.py studio_shades`）。enemies.json `projTime`：它扔的东西飞几秒（默认 `behaviors.json projectile.time` 1.5）。

diff --git a/docs/LOG.md b/docs/LOG.md
@@ -339,3 +339,5 @@
 - 用户（2026-10-22）：Q 版大部分时候看不全，Q 版没有咒印不要紧 → Q 版表情不改。
 - 用户（2026-10-22，试玩第 1 话，十七条）：1 第 1 小关后的漫画最右立绘不该看到咒印；2 画廊吊灯变怪太慢，回头看到的还是吊灯、没打就又掉头了——做游戏不能卡秒表，完全的事件推进，一个事件节点没完成就不到下一个；门怪从门变成怪程序画动画、然后只显示怪，不然和真门穿模，死了再程序动画露出后面的门；3 开门声做得更像开门声；4 小怪血量又改得太少，至少现在的 1.5 倍，飞的怪为啥全删了，砍血量还把怪数减少了许多；5 冷库棺材和别的东西太近穿模，冷库的洞小得要死、也没有怪从那边出来，为啥要打？之前说架子太小，反而把洞改小偷懒；6 进儿童房前的漫画喵爪上都该有咒印，儿童房夫人话没说完影子就消失，两个小人偶变身前原地抽搐、距离远、看一个另一个就看不到，不懂为啥非得设置这种怪，图片偷懒复用、抽搐表示没变身、变身了还是那张立绘，谁 get 得到；7 被烤炉吸进去做动画：门洞开、吸力，不出现立绘，接漫画；8 到蛆虫 Boss 前的开门动画没有；9 蛆虫 Boss 锁定攻击阶段打一枪就被强制装填？主动技能打上去不吃伤害？钻在地下 AI 都能瞄准打出伤害？10 连击和 Fever 每个小关重置、连击 2 秒都没有就回退，之前说改的又回去了；11 打完 Boss 的跳跃单独做面朝镜头的跳跃庆祝，射击姿势原地上下抽搐算什么；12 护送左侧敌人出在镜头外、瞄准只看到不到 1/10，孩子又原地上下抽搐、Codex 就不能出点资产做假动图么、天天不敢用 Codex，门旁边放一只手抽象、删了，孩子灵魂的门和后面开门动画的门完全不一样，让 Codex 出孩子灵魂守望再做开门；13 画室 1P 远处的 HUD 都盖住了，两人稍微居中；14 夫人三阶段大手有弱点么，2P AI 光速没了救不了、又突然回来像没掉血，环绕的孩子灵魂形态要会变、从无辜天使到妖魔鬼怪来回幻化、不和护送的资产重复，环绕是为了表达啥、给 Boss 护盾？15 夫人没血了周围环绕那么多重复的东西干啥，回忆杀直接看剧情，非得玩家点什么，漂浮还穿模；16 夫人到底几个娃，一个的话夫人影那句「座位又空了」？17 夫人升天配专门的动画和过场，别用已有的房间、破天花板一束光就结束、孩子还背对夫人；夫人翻一个道具变得像人一点、母女团圆、化成粒子四散，Codex 能出关键帧序列。
 - 第 1 条做了：扫玻璃那页最右一格举起的爪子掌心朝外，咒印只抹不贴（`r53_glass_a2`，抹除框手工收到不碰爪尖），这一页重新放进第 1 话的包。
+- 第 2 条做了：回头那站吊灯没醒就走，是因为「挂着没醒的吊灯不算这一波的怪」（为了让后面的波次叫醒它们），最后一波也照样不算，于是还挂着就清场了；另外一盏自带定时醒的吊灯不记「醒着」，和叫醒事件撞到同一盏，另一盏永远挂着。改了：一波里定时的事件没全发生、怪没出完不算完；最后一波挂着的也算；谁叫醒的都记醒着；只叫醒吊灯的那一波不等波次间隔，吊灯醒前只抖 0.5 秒。夫人之影：先等她的声音加载好，没有别的特写时才拍她，那句说完才化掉，这一站第一波（`hold`）等她化掉才开始，吊灯这类摆设一开始就挂着。噬人门：它当门时真门藏起来，打死后鼓一下、塌成一滩，真门淡回来。开发服务器上自动打画廊：吊灯一盏接一盏醒（最多两盏同时），回头那站两盏都醒了、打完才走，门怪那里只有一扇门，死后真门回来，没有报错。
+- 用户（2026-10-22，附扫玻璃那格的图）：这张的爪子也比喵娘大太多，重新出 → R93 只把她那块交给 Codex，爪子缩到头的一倍半左右、掌心肉垫朝外、不画咒印，其他不动；三版里 a 把爪子画没了、c 看不出是哪一面，用 b，贴回原页。

diff --git a/docs/ART.md b/docs/ART.md
@@ -133,7 +133,7 @@
   - R39：NIKKE 式 HUD 效果图、Q 版装填大头、街机字（RELOAD! 等）、裂屏、R39 艺术字；R40：HUD 拆解；R41：猫娘设计字三套（seal / catbrush / sigil，`fx/gl2_*`）、序章四页整页漫画（`tools/comic_panels.py` 自动切格）；
   - R36：装填特写、气泡贴纸、序章漫画候选、Boss 按镜头的部位；R37：符箓毛笔字（`fx/fu_*`），重出被拒的漫画格；
   - R35：HUD 拆解图层、图标、符咒弹药（3 套）、装填图（每人 3 张）、Q 版表情（每人 24 个）、准星（每人 3 套 × 8 态）、射击 / 命中特效原画（`tools/rounds/r35_import.py`）。
-  - R93：猫娘两只手都画成爪的漫画格（`job_specs93.py`，导入 `r93_import.py`，做法同 R60：只裁她那块交给 Codex 把一只改回人手、只贴回她那块，总从这轮之前的原页开始 `art/raw/r93/orig_*`）：第 1 话喷泉第 4 格（用 b）、掉进坑道第 3 格（用 c，留下的爪上 Codex 重画的咒印由 `seal_fix page93_fall_1` 换成标准的）、第 2 话开头第 1 格（用 d：a～c 下巴下那团毛还是两只爪的轮廓，加上人手成了三只手，d～f 直接要求画面里正好两只手；e 把她画成了地雷妹、f 整格变了）。挑图时要数手。
+  - R93：猫娘两只手都画成爪的漫画格（`job_specs93.py`，导入 `r93_import.py`，做法同 R60：只裁她那块交给 Codex 把一只改回人手、只贴回她那块，总从这轮之前的原页开始 `art/raw/r93/orig_*`）：第 1 话喷泉第 4 格（用 b）、掉进坑道第 3 格（用 c，留下的爪上 Codex 重画的咒印由 `seal_fix page93_fall_1` 换成标准的）、第 2 话开头第 1 格（用 d：a～c 下巴下那团毛还是两只爪的轮廓，加上人手成了三只手，d～f 直接要求画面里正好两只手；e 把她画成了地雷妹、f 整格变了）。挑图时要数手。扫玻璃那页最后一格（用 b）：爪子画得比她整个上身还大，重画成头的一倍半左右、掌心朝外（这一格太窄，裁的时候往页面左边多带一点，只贴回她那块：`GROW`）。
   - R92：第 1 话的开头和结尾两页漫画重出（`job_specs92.py`，导入 `r92_import.py`）：开头去掉门玻璃里的夫人，改成店深处有动静；结尾去掉哭和黑格，改成长舒一口气走人、远处又有动静、回头杀。带两人设定图和地雷妹的衣服描述；开头用 c（第 3 格爪子贴在玻璃上、掌心朝外，画出来的咒印 `seal_fix page92_intro_3` 只抹不贴；a 那格咒印在爪子侧面贴着背景，抹不干净），结尾用 a（`page92_end_1`）。`seal_fix.py` 新加 `stamp: false`：只抹掉画出来的咒印、不贴（侧面看不到手背的爪子）。
   - R90 / R91：第 1 话一屋一种怪的新种类（`job_specs90.py` / `job_specs91.py`，导入 `r90_import.py` / `r91_import.py`，3 × 2 六姿势表，姿势名和冰淇淋丧尸一样）：冷库的冰棍骸骨（R90，先出这一种验证）、烤炉厨房的焦糖姜饼人、坑道的蜜蛆幼虫和幼虫女王（女王用守丧之影那套站着扔东西的姿势名）、冥界的黑蜜客人（R91）。每种五个设计挑三个（女王三个挑一个）；提示词里写明那间屋子的底色，主色要和它一眼分开（2026-10-22 用户：Codex 出的一个色系区分度低）。「咬」那格常画到格子边上、切出来是一条直边：导入时测出来就用「扑」那格代替。
   - R87：画室的四个影重画（`job_specs87.py`，导入 `r87_import.py`，3 × 2 六姿势表，姿势名和 R56 一样）：要求轮廓一眼认得、大块平涂、少细节、不要噪点，每个一种主色、不都是人形（女主人 = 茶点推车、守丧 = 水母一样的黑纱、母亲 = 婴儿车、新娘 = 四脚兽）。

diff --git a/docs/PLAN.md b/docs/PLAN.md
@@ -267,8 +267,8 @@
   - [x] 两只手都是爪的漫画格：第 1 话喷泉第 4 格、掉进坑道第 3 格，第 2 话开头第 1 格 → R93 只把她那块交给 Codex 把一只改回人手，贴回原页（坑道那只爪的咒印换回标准的）。
   - [x] HUD 的 Q 版表情（`ui/chibi_cat_*`）24 张里约 17 张两只手都是爪 → 用户：Q 版大部分时候看不全，不改，也不用咒印。
 - [ ] **第 1 话十七条**（2026-10-22 用户试玩），一条一条做、每条验证后提交：
-  - [x] 1. 第 1 小关后的漫画（扫玻璃）最右一格：爪子掌心朝外、不该有咒印 → 只抹不贴（`seal_fix r53_glass_a2`，框收到不碰爪尖）。
-  - [ ] 2. 关卡完全按事件推进，一个事件节点没完成不进下一个，不靠秒表：画廊吊灯变怪太慢、回头时还是吊灯、没打就走了；门怪从门变怪用程序动画、之后只显示怪（不和真门穿模），死了再程序动画露出后面的门。
+  - [x] 1. 第 1 小关后的漫画（扫玻璃）最右一格：爪子掌心朝外、不该有咒印 → 只抹不贴（`seal_fix r53_glass_a2`，框收到不碰爪尖）；用户又说这格爪子比她大太多 → R93 重画成头的一倍半左右。
+  - [x] 2. 关卡完全按事件推进，一个事件节点没完成不进下一个，不靠秒表：画廊吊灯变怪太慢、回头时还是吊灯、没打就走了；门怪从门变怪用程序动画、之后只显示怪（不和真门穿模），死了再程序动画露出后面的门。→ 一波的定时事件没发生完不结束、最后一波连挂着的吊灯也算；吊灯一盏打下来下一盏马上醒（抖 0.5 秒）；夫人之影等声音加载好、说完才化掉，这一站的怪等她化掉才出；噬人门活着时真门藏起来，死了塌成一滩、真门淡回来。
   - [ ] 3. 开门声做得更像开门声。
   - [ ] 4. 第 1 话小怪血量至少现在的 1.5 倍；飞的怪恢复；怪的数量恢复（一屋一种之前那么多）。
   - [ ] 5. 冷库：棺材和别的东西挨太近穿模；洞太小、也没有怪从洞里出来 → 洞做大、怪从洞里出来，打架子盖洞才有意义（之前说的是架子太小）。
